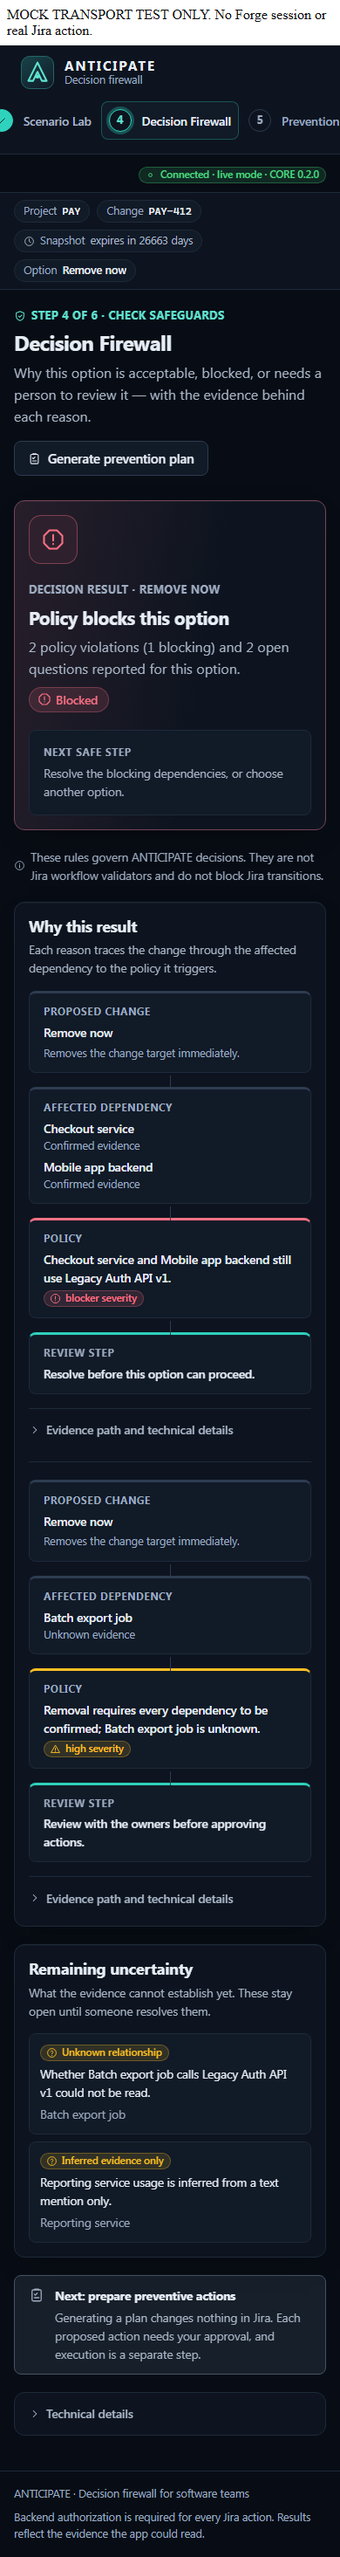
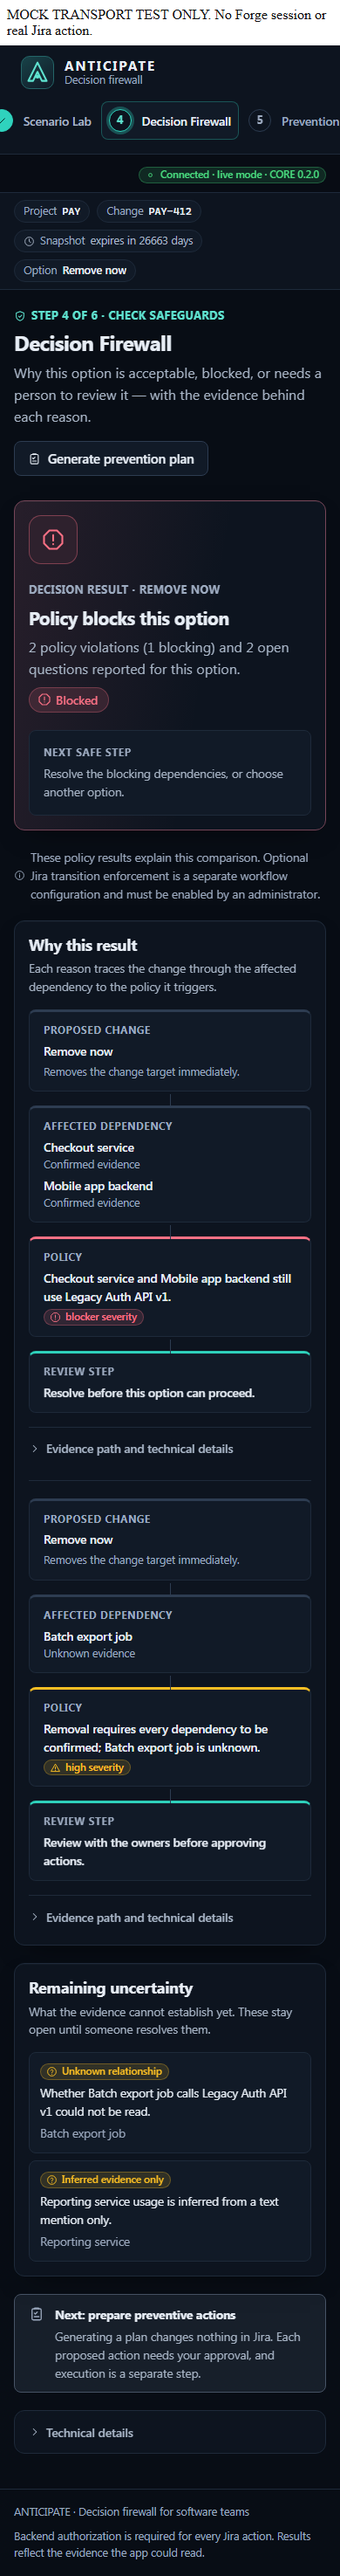
Verify UI v3 against real tooling and fix readable mobile Passport tables

diff --git a/static/hello-world/src/styles/anticipate.css b/static/hello-world/src/styles/anticipate.css
@@ -1225,14 +1225,19 @@ body:has(.ax-app) {
   background: var(--ax-surface-3);
 }
 .ax-table-wrap {
+  position: relative;
   overflow-x: auto;
   border-radius: var(--ax-r);
   border: 1px solid var(--ax-border);
 }
 .ax-table {
   width: 100%;
+  min-width: 640px;
   border-collapse: collapse;
   font-size: var(--ax-fs-sm);
+}
+.ax-table .ax-badge {
+  white-space: nowrap;
 }
 .ax-table th,
 .ax-table td {
@@ -3367,6 +3372,9 @@ body:has(.ax-app) {
     overflow: visible;
     border-color: #9aa6b4;
   }
+  .ax-table {
+    min-width: 0;
+  }
   .ax-table thead {
     display: table-header-group;
   }
@@ -3482,4 +3490,14 @@ body:has(.ax-app) {
 
 .ax-app #graph-search {
   padding-inline-start: 36px;
+}
+
+.ax-app .ax-report,
+.ax-app .ax-report__section,
+.ax-app .ax-table-wrap {
+  min-width: 0;
+  max-width: 100%;
+}
+.ax-app .ax-table-wrap {
+  width: 100%;
 }

diff --git a/static/hello-world/src/features/Settings.tsx b/static/hello-world/src/features/Settings.tsx
@@ -47,13 +47,13 @@ const rows: { key: Key; name: string; what: string; inApp: string }[] = [
     key: "teamworkGraph",
     name: "Teamwork Graph",
     what: "Additional relationship sources across Atlassian products.",
-    inApp: "Not in this version",
+    inApp: "Reported by backend",
   },
   {
     key: "workflowValidator",
     name: "Jira workflow validator",
-    what: "Enforce decisions inside Jira transitions. ANTICIPATE policies are not workflow validators.",
-    inApp: "Not in this version",
+    what: "Optional Jira transition validator declared in the manifest. An administrator must add it to a workflow; the policy explanation screen alone does not enforce transitions.",
+    inApp: "Declared by the app",
   },
   {
     key: "llm",

diff --git a/static/hello-world/src/features/DecisionFirewall.tsx b/static/hello-world/src/features/DecisionFirewall.tsx
@@ -136,8 +136,9 @@ export default function DecisionFirewall({ w }: { w: Workflow }) {
       </section>
       <p className="ax-muted ax-small ax-scope-note">
         <Icon name="info" size={13} />
-        These rules govern ANTICIPATE decisions. They are not Jira workflow
-        validators and do not block Jira transitions.
+        These policy results explain this comparison. Optional Jira transition
+        enforcement is a separate workflow configuration and must be enabled by
+        an administrator.
       </p>
       {writeState && writeState !== "AVAILABLE" && (
         <Notice

diff --git a/docs/design/UI_RELEASE_READINESS.md b/docs/design/UI_RELEASE_READINESS.md
@@ -17,7 +17,7 @@ The bundle author's esbuild/React 19 run is historical only. Results here use th
 | WebKit critical suites | 32/32 passed (2.4 min) |
 | Final mobile graph reflow adjustment | 3/3 Firefox (12.3 s) and 3/3 WebKit reflow cases passed after the final zoom/padding adjustment. |
 | axe WCAG-tagged checks | Real axe runs in critical suites cover seven screens, light/dark, desktop/tablet/mobile; refusal/sample states also checked. No blanket accessibility certification. |
-| Root `npm ci`, TypeScript, tests | PASS; 31 CORE tests |
+| Root `npm ci`, TypeScript, tests | PASS; 31 tests on the initial baseline and 43/43 after synchronizing main through fda93de |
 | Contracts / simulation | 3/3 and 8/8 passed |
 | Hosted Forge (LIVE_FORGE) | NOT RUN. CORE owns deployment and authenticated acceptance. |
 | Native browser zoom, screen reader, long soak | NOT RUN. CSS 200% reflow is a stress test, not native zoom/AT certification. |
@@ -43,3 +43,13 @@ Settings' static capability column reflects four read-only MCP tools and the Rov
 ## Limits and release ownership
 
 No new dependency, backend, shared-contract, manifest, Forge identity, permission or deployment change. This work does not establish hosted Forge compatibility or a live Jira outcome. Dependency findings remain frontend 14 moderate/2 high, root 15 moderate/2 high/2 critical; missing license texts remain open. Local captures are MOCK_TRANSPORT. CI frontend job installs/builds; local unit/browser/axe results are separate evidence. No PR merge or Forge deployment is performed by EXPERIENCE.
+
+## Final main compatibility follow-up
+
+The UI merge was committed, the imported handoff folder was removed with targeted file cleanup, and the temporary import branch was deleted. Main had advanced through CORE 02d6104 while UI verification ran, so its existing commits were merged without EXPERIENCE-authored backend changes. Clean installs, root/frontend TypeScript, lint, 47 frontend unit tests, 43 CORE tests, 3 contract and 8 simulation tests, and build passed again. The six screen/theme/viewport accessibility matrix cases plus the eight drift/sample cases passed again (14/14, 1.2 min), and all 13 visual cases were regenerated and passed again (1.0 min).
+
+The Settings declarations now reflect the optional Jira workflow validator in that manifest as well as the Rovo agent and four MCP tools; backend-reported availability and verification remain separate. Teamwork Graph is reported by the backend rather than incorrectly described as absent. These policy explanations are distinct from administrator-configured transition enforcement.
+
+Native mobile Passport review found overly narrow table cells splitting status words into letters. Tables now retain a readable minimum width within their already-labelled, keyboard-focusable horizontal scroll regions, with a print-specific reset. This is a deliberate two-dimensional scroll region, not page overflow. Final mobile matrix cases passed 2/2 and visual journeys passed 2/2 (dark rerun after a Windows screenshot file-open error). Adding a positioned scroll container also prevents positioned table content from propagating overflow to the page. Assertions were not weakened. The complete 72-case Chromium result predates the main sync and this CSS correction; the focused follow-up results above cover the later changes.
+
+Measured final Vite output: main Forge application JS 165.79 kB (42.80 kB gzip), lazy graph JS 193.81 kB (62.37 kB gzip); main CSS 61.53 kB (11.39 kB gzip), graph CSS 15.41 kB (2.56 kB gzip). These are build sizes, not loading-time or interaction-speed claims. Asset hashes are in the verification folder.

diff --git a/docs/design/UI_VISUAL_QA.md b/docs/design/UI_VISUAL_QA.md
@@ -66,3 +66,5 @@ Historical captures in `evidence/experience/core-integration/` are the *before* 
 Actual axe checks found contrast failures in the connection badge, graph overlay, selected metadata and staged explanations. Semantic colors were strengthened and text-opacity entry animations removed while preserving transform motion and reduced-motion support. The search input padding was fixed after native capture review. Mobile graph labels were too small under automatic whole-map fitting; initial mobile zoom is now readable, with honest pan/zoom and evidence-list guidance. The 8/20/36 node windows, off-window edge disclosure and responsive selection guards are preserved.
 
 The final full Chromium run regenerates the visual set after these corrections. Review images are contact sheets of captures, not synthetic application mockups. Header/badge LIVE wording belongs to the tested application, while the explicit MOCK TRANSPORT banner identifies the actual test provenance.
+
+Final mobile report correction: table status labels were breaking into one-letter columns. Tables keep readable intrinsic width inside named, focusable horizontal scroll regions; print removes the minimum width. Native mobile Passport and the mobile graph were re-inspected after correction.
